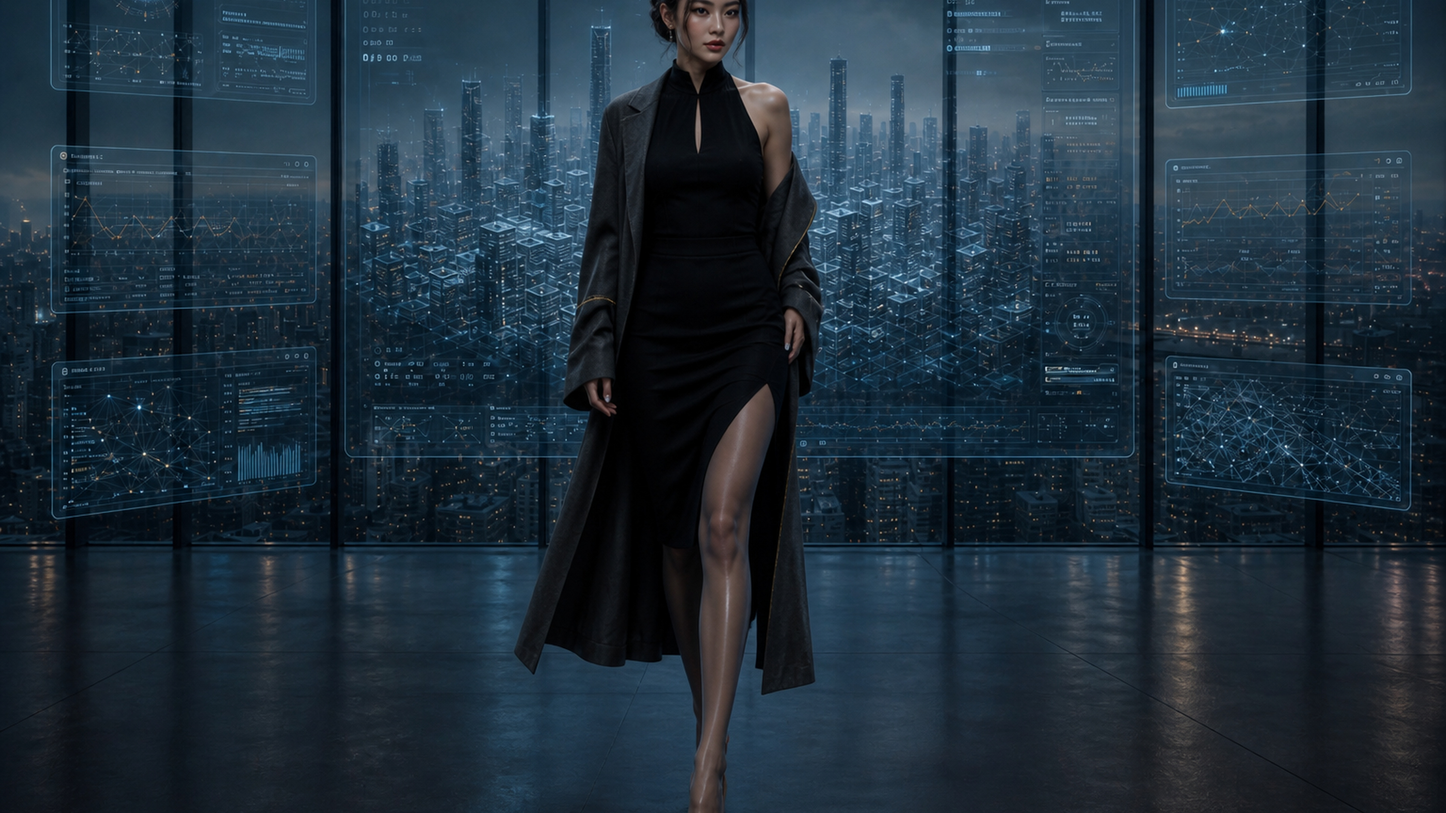
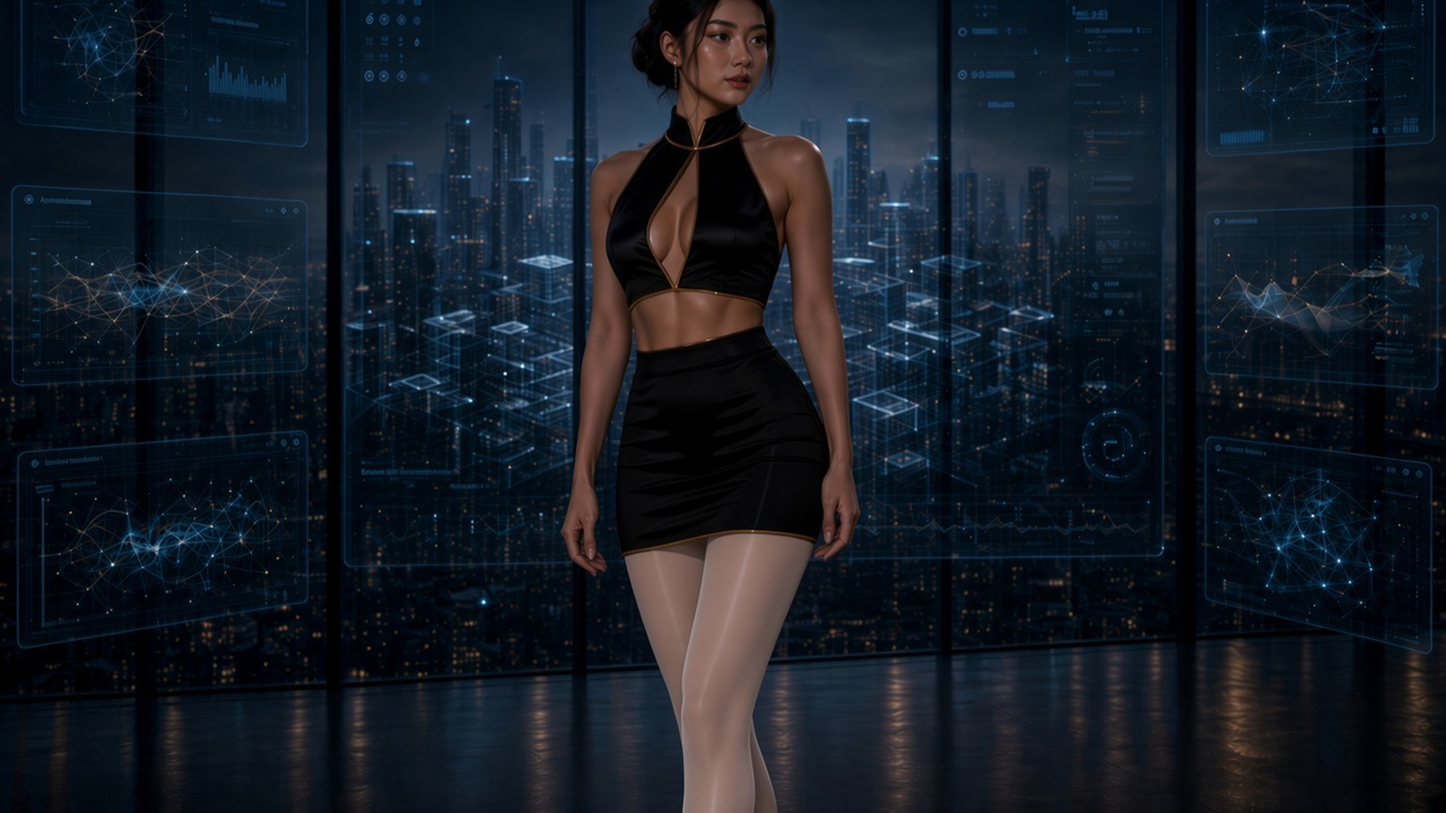
Restyle neon-dystopia hours 15-17 with pale sheer hose
Match the 12/20 two-piece cut, drop the coat on 15, and keep fair pantyhose thin enough to read as nylon instead of opaque ivory.

diff --git a/images/neon-dystopia/task-blade-runner-2049.md b/images/neon-dystopia/task-blade-runner-2049.md
@@ -10,7 +10,7 @@
 - 翻譯的是色域、光、天氣、建築尺度與時段情緒
 - 即使只做 12–16 張獨特圖，仍須保留 `0.jpg` 到 `23.jpg`
 
-本文件是主題研究與產圖 brief。`9.jpg`–`14.jpg` 已各換成獨立實體圖（該段依當次指示含人物）。`12.jpg` 依後續指示把華勒斯水殿人物改為黑金兩件式、加大胸前鏤空、極薄黑褲襪；`15.jpg` 依後續指示把 8／14 的人物與窄裙、透明絲襪、高跟鞋放進城市 OS 主畫面；`16.jpg` 改為兩件式窄裙操作者站在交通／電網圖層前；`17.jpg` 為新人物鑽入行政區模組（偏後、膚色褲襪）；`18.jpg` 為黃昏 OS 酒紅長捲髮操作者、超薄透膚黑褲襪；`19.jpg` 為體積孿生裡的酒紅捲髮操作者（正面微側、透膚黑褲襪）；`20.jpg` 為夜前操作甲板的酒紅捲髮操作者（歐美日本混血嘗試、極薄酒紅薄紗褲襪、高領加大胸前鏤空上衣；金茶色絲光易被讀成油亮裸腿，已改色）。
+本文件是主題研究與產圖 brief。`9.jpg`–`14.jpg` 已各換成獨立實體圖（該段依當次指示含人物）。`12.jpg` 依後續指示把華勒斯水殿人物改為黑金兩件式、加大胸前鏤空、極薄黑褲襪；`15.jpg`–`17.jpg` 依後續指示改成 12／20 的剪裁：兩件式、胸前或背後鑽空、淺薄白皙絲襪；`15` 去掉大衣；`16` 酒紅兩件式；`17` 冰灰回眸；`18.jpg` 為黃昏 OS 酒紅長捲髮操作者、超薄透膚黑褲襪；`19.jpg` 為體積孿生裡的酒紅捲髮操作者（正面微側、透膚黑褲襪）；`20.jpg` 為夜前操作甲板的酒紅捲髮操作者（歐美日本混血嘗試、極薄酒紅薄紗褲襪、高領加大胸前鏤空上衣；金茶色絲光易被讀成油亮裸腿，已改色）。
 
 ## 現況對照
 
@@ -24,9 +24,9 @@
 | `7` | `7.jpg` | 機構大廳＋瀏海大衣、極薄黑褲襪 | 同一大廳拉近，腿清楚 |
 | `8` | `8.jpg` | 機構大廳＋黑金短洋裝、極薄黑褲襪 | 側步拉近，與 7 同廳不同人 |
 | `9–14` | 各一張獨立圖 | 已重產：LED 雨衣近景／廳堂／金階／水殿／霧堤近景／Vegas | `9` 留粉藍 LED；`13` 改灰霧堤、去掉重複 LED 牆 |
-| `15` | `15.jpg` | 城市 OS 主畫面＋人物（窄裙、透明絲襪、高跟鞋） | 場景仍是午後界面；人物契約對齊 8／14 |
-| `16` | `16.jpg` | 交通／電網 OS＋兩件式窄裙操作者 | 儀表更密；露腰線、高腰窄裙 |
-| `17` | `17.jpg` | 行政區模組＋新人物（偏後、膚色褲襪） | 更近、更幾何；回眸兩件式 |
+| `15` | `15.jpg` | 城市 OS＋黑金兩件式、胸前鑽空、淺薄白皙絲襪 | 大衣已拿掉；褲襪淡、薄 |
+| `16` | `16.jpg` | 交通／電網 OS＋酒紅兩件式、淺薄白皙絲襪 | 不再用實色象牙／酒紅腿 |
+| `17` | `17.jpg` | 行政區模組＋冰灰回眸、淺薄白皙絲襪 | 背後鑽空；褲襪淡、薄 |
 | `18` | `18.jpg` | 黃昏 OS＋酒紅捲髮回眸、透膚黑褲襪 | 青界面壓過琥珀天際線 |
 | `19` | `19.jpg` | 體積孿生＋酒紅捲髮正面微側 | 系統填滿景深；透膚黑褲襪 |
 | `20` | `20.jpg` | 操作甲板＋酒紅捲髮、極薄褲襪、加大胸前鏤空 | 擋風玻璃＝桌面；夜前 |
@@ -230,9 +230,9 @@ Villeneuve：從凍結的雪定義更殘酷的未來 LA，銀白而不是黑。[
 | `9–10` | `9.jpg` | LA 日霾 | 無太陽、短能見度；顏色只在遠方指示燈輕輕跳 |
 | `11–13` | `12.jpg` | 華勒斯水殿 | 全片唯一陽光：金、焦散、慢移光；黑金兩件式、加大胸前鏤空、極薄黑褲襪 |
 | `14` | `14.jpg` | Vegas 雕像庭（已產，含人物） | 赭紅塵 |
-| `15` | `15.jpg` | 城市 OS 主畫面＋8／14 人物 | 窄裙、透明絲襪、高跟鞋；午後界面剛亮 |
-| `16` | `16.jpg` | 交通／電網圖層＋兩件式操作者 | 高腰窄裙、露腰；儀表密度升高 |
-| `17` | `17.jpg` | 行政區模組＋新人物 | 偏後回眸；膚色褲襪後中縫 |
+| `15` | `15.jpg` | 城市 OS＋黑金兩件式 | 胸前鑽空、淺薄白皙絲襪；午後界面 |
+| `16` | `16.jpg` | 交通／電網＋酒紅兩件式 | 淺薄白皙絲襪；儀表密度升高 |
+| `17` | `17.jpg` | 行政區模組＋冰灰回眸 | 背後鑽空、淺薄白皙絲襪 |
 | `18` | `18.jpg` | 黃昏 OS＋酒紅捲髮回眸 | 透膚黑褲襪；界面光壓過天際線 |
 | `19` | `19.jpg` | 全幅體積孿生＋正面微側操作者 | 系統填滿景深；透膚黑褲襪 |
 | `20` | `20.jpg` | 操作甲板＋正面微側操作者 | 擋風玻璃＝桌面；極薄酒紅薄紗褲襪、高領加大胸前鏤空，無後中縫 |
